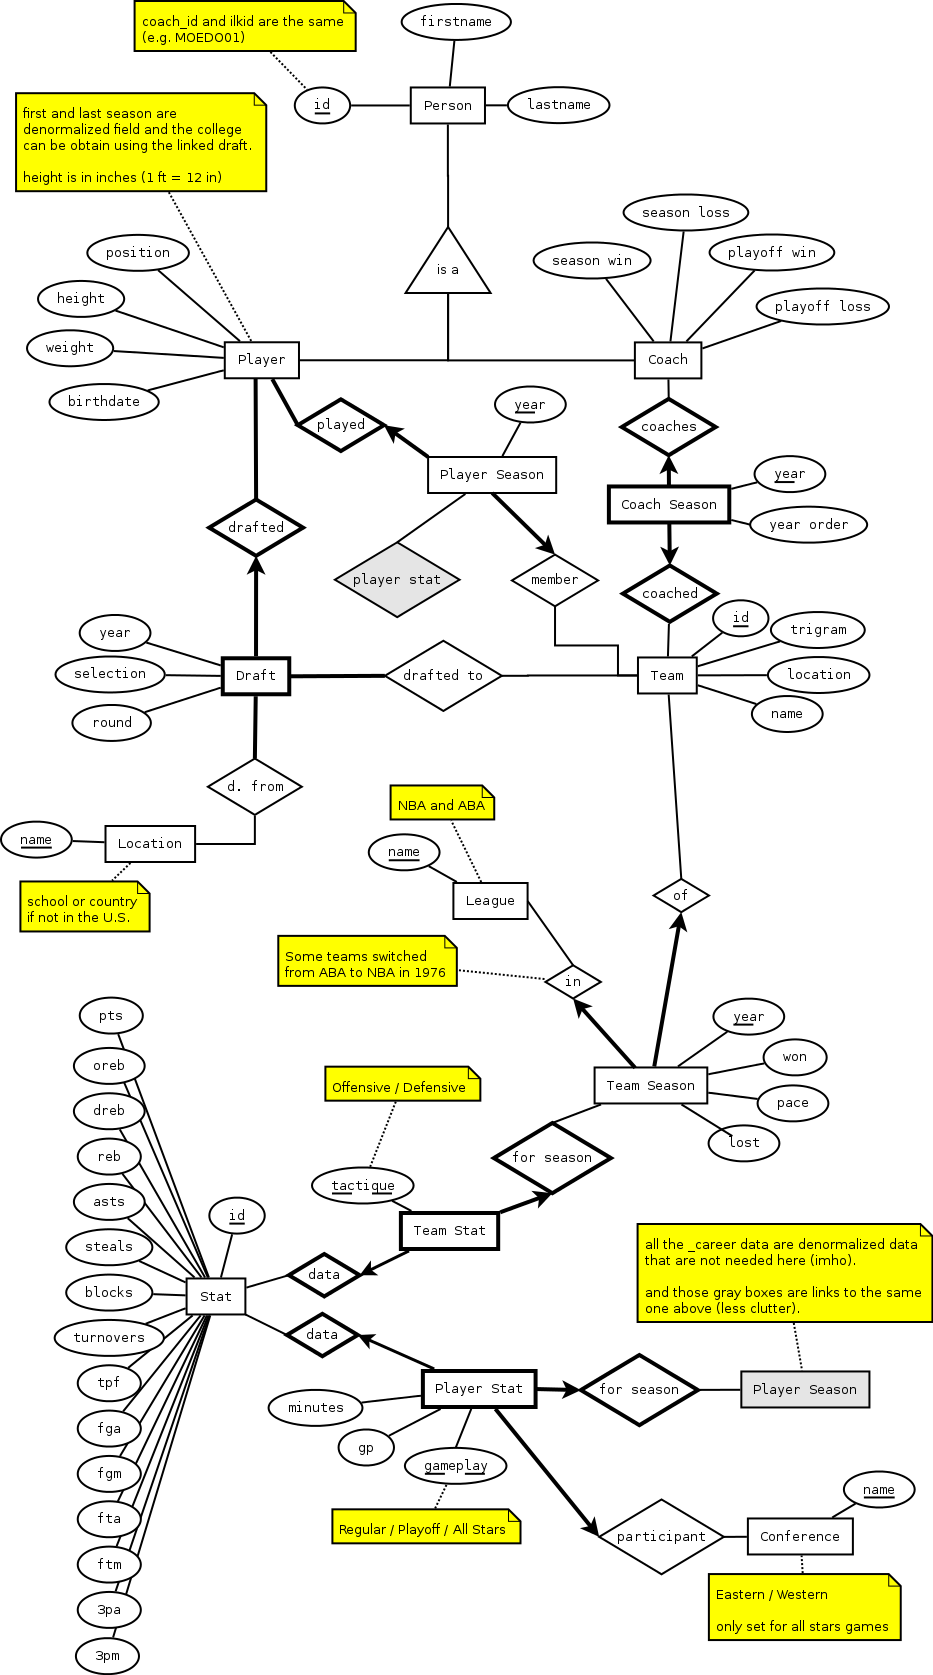
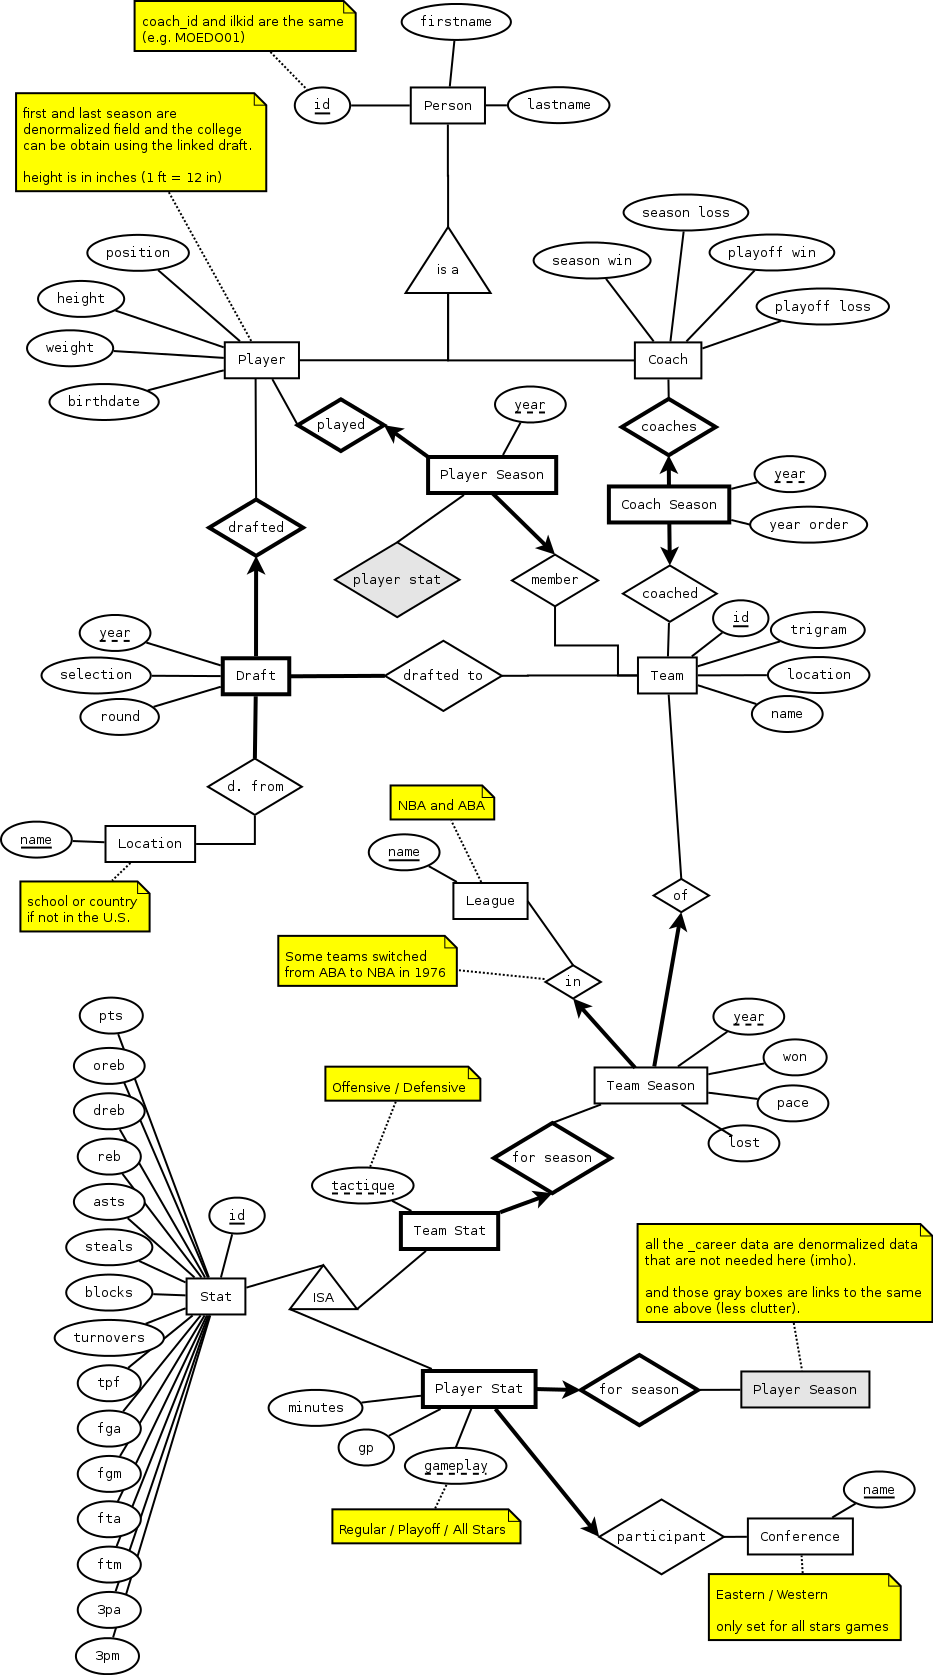
Modified the logical design to reflect the SQL code.

diff --git a/documents/report/source/deliverable1.rst b/documents/report/source/deliverable1.rst
@@ -56,8 +56,8 @@ One major change from the dataset here is that the *People* who go drafted but n
 
 **NB** it doesn't have any link with the *Team*'s location which is a city when here, it's the College where the *Player* got drafted from.
 
-Q: Shouldn't we link Drafts to People and not Players in that case?
-A: No because even players who have never played for an ABA or NBA team have played before for a European team or a school team. Therefore they already have the characteristics of player (position, height, weight, birthdate) when they are drafted.
+*Q: Shouldn't we link Drafts to People and not Players in that case?
+*A: No because even players who have never played for an ABA or NBA team have played before for a European team or a school team. Therefore they already have the characteristics of player (position, height, weight, birthdate) when they are drafted.
 
 Stats and Seasons
 '''''''''''''''''
@@ -76,12 +76,17 @@ Then *Teams* have *offensive* and *defensive* statistics while the *Players* hav
 Design the database and the constraints needed to maintain the database consistent
 ======================================================
 
+.. figure:: ../../design/logical.png
+
 Create the SQL commands to create the tables in Oracle
 ======================================================
 
 .. literalinclude:: ../../sql/schema.sql
 
 .. TODO: discussion on the constraints
+
+*We will take a quick look at the several tables and highlight their constraints.
+*PEOPLE: 
 
 Conclusion
 ==========
